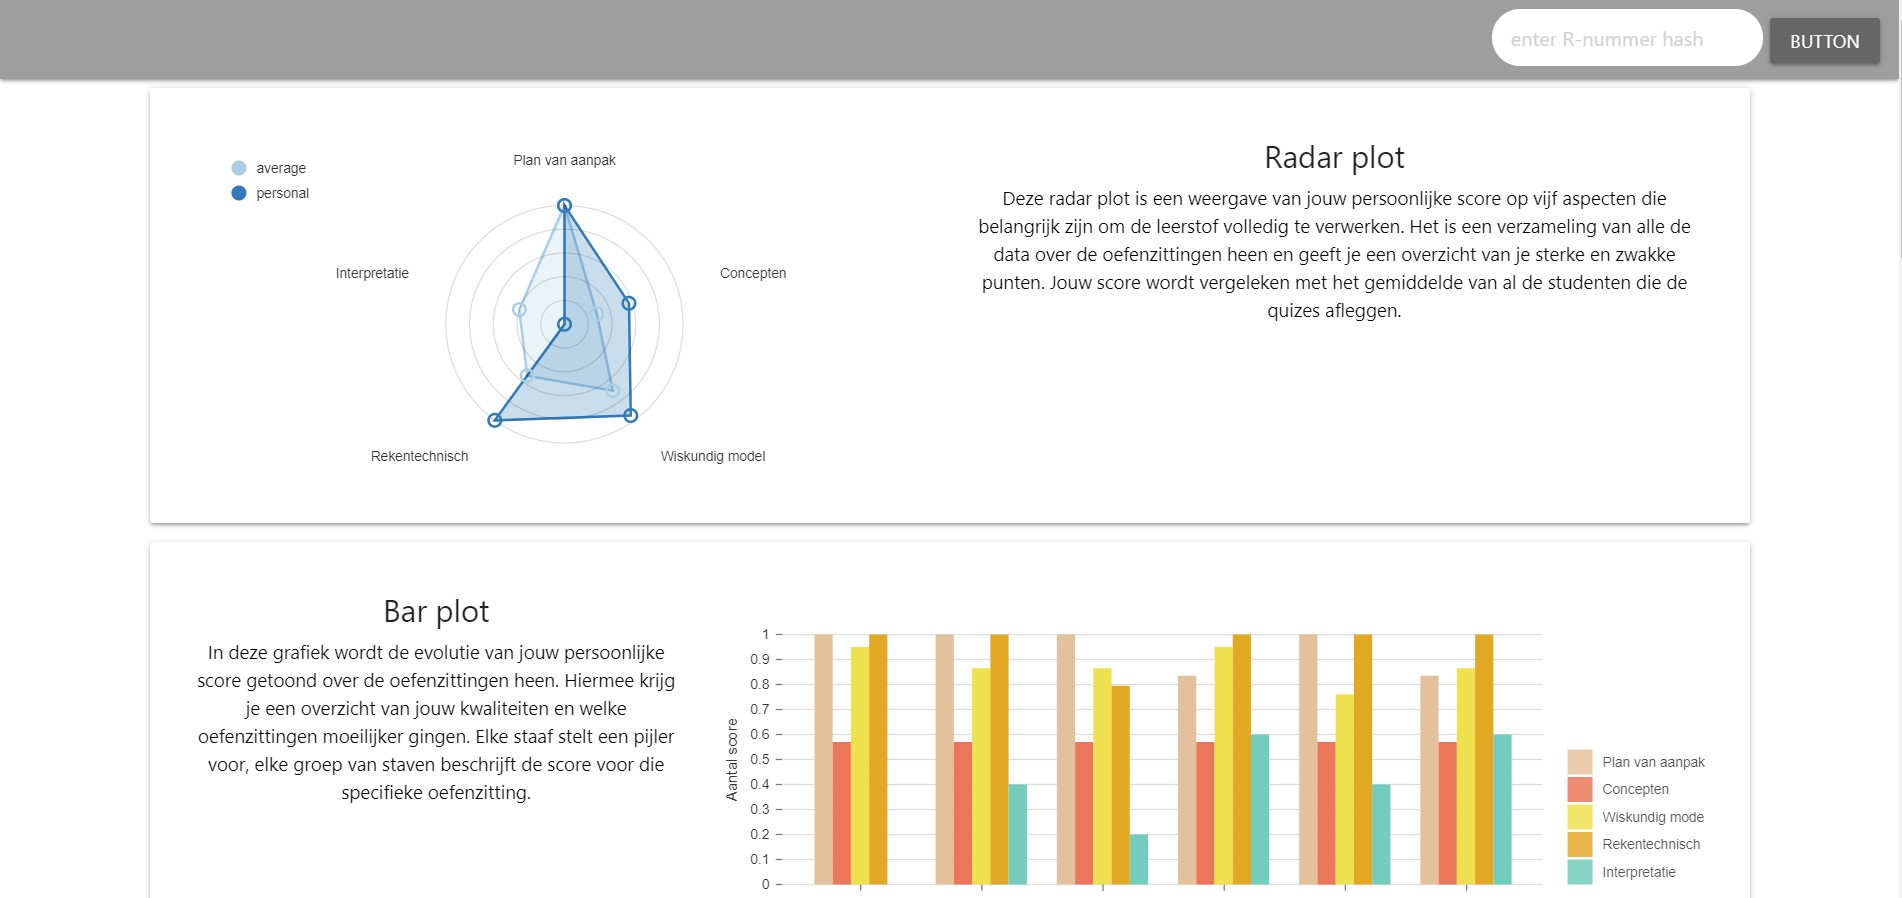
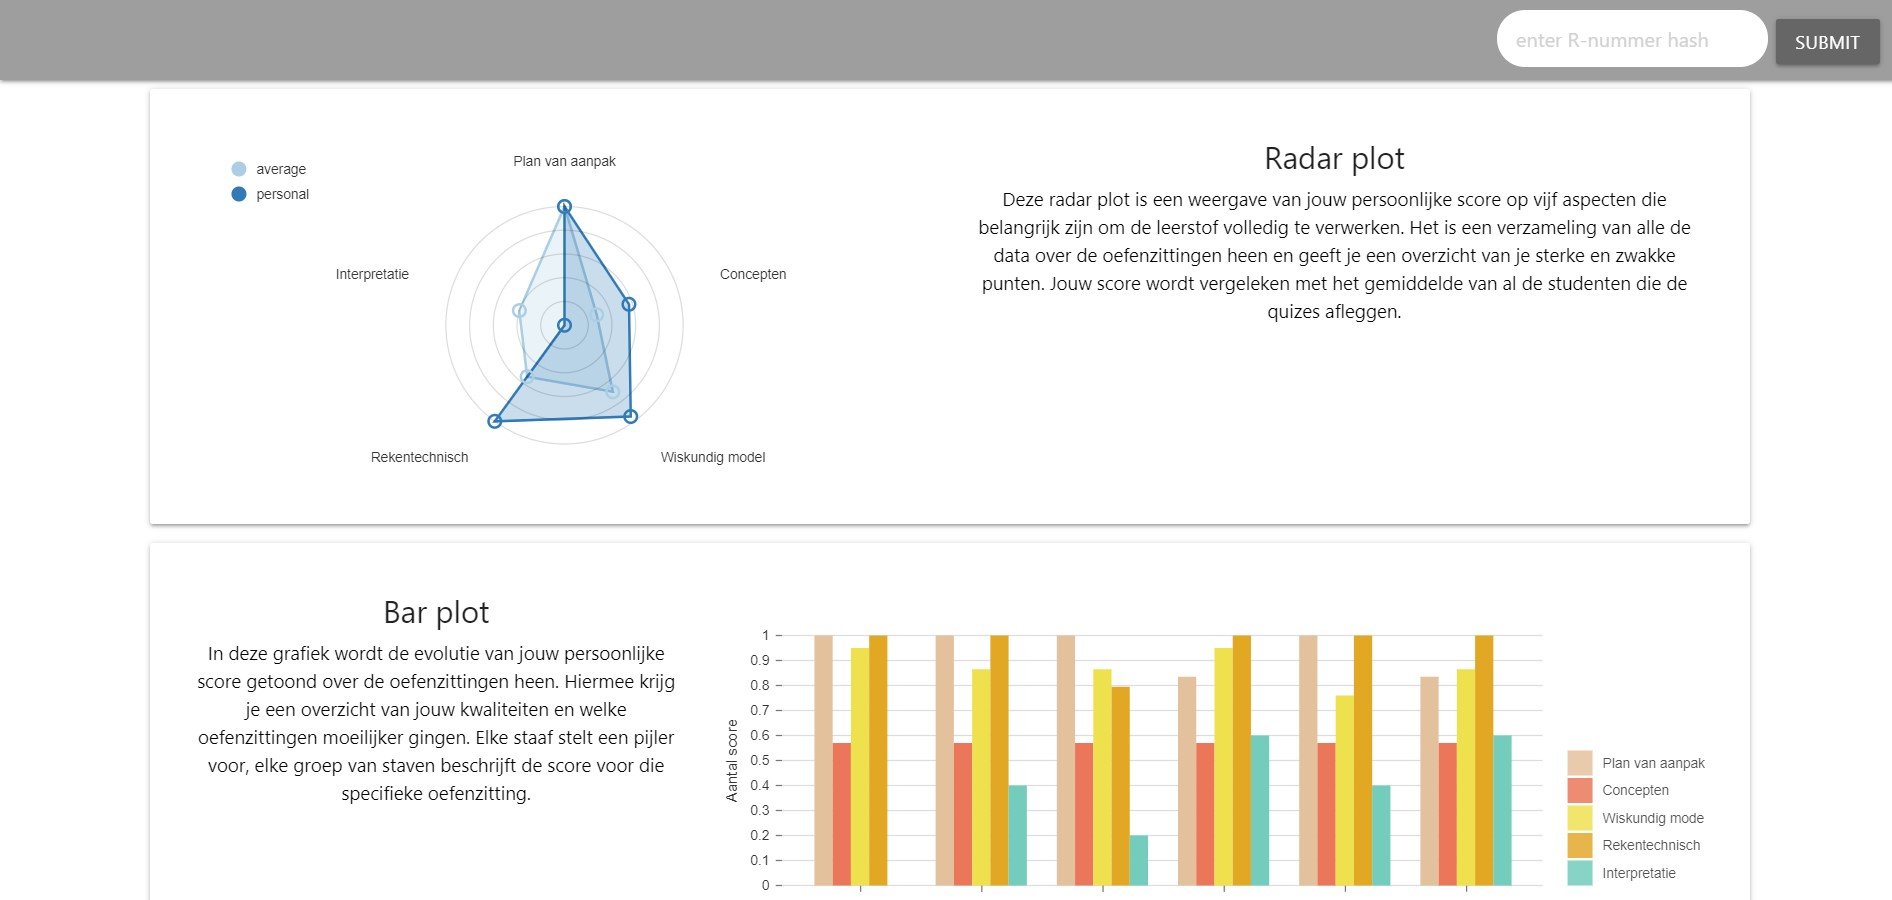
submit

diff --git a/feedback-frontend/src/components/App/App.jsx b/feedback-frontend/src/components/App/App.jsx
@@ -52,7 +52,7 @@ class App extends Component {
                   </form>
                 </li>
                 <li className="tab">
-                  <a className="waves-effect waves-light btn findbtn" onClick={() => {callServer(document.getElementById("rNummer").value)}}>button</a>
+                  <a className="waves-effect waves-light btn findbtn" onClick={() => {callServer(document.getElementById("rNummer").value)}}>Submit</a>
                 </li>
               </ul>
             </div>
